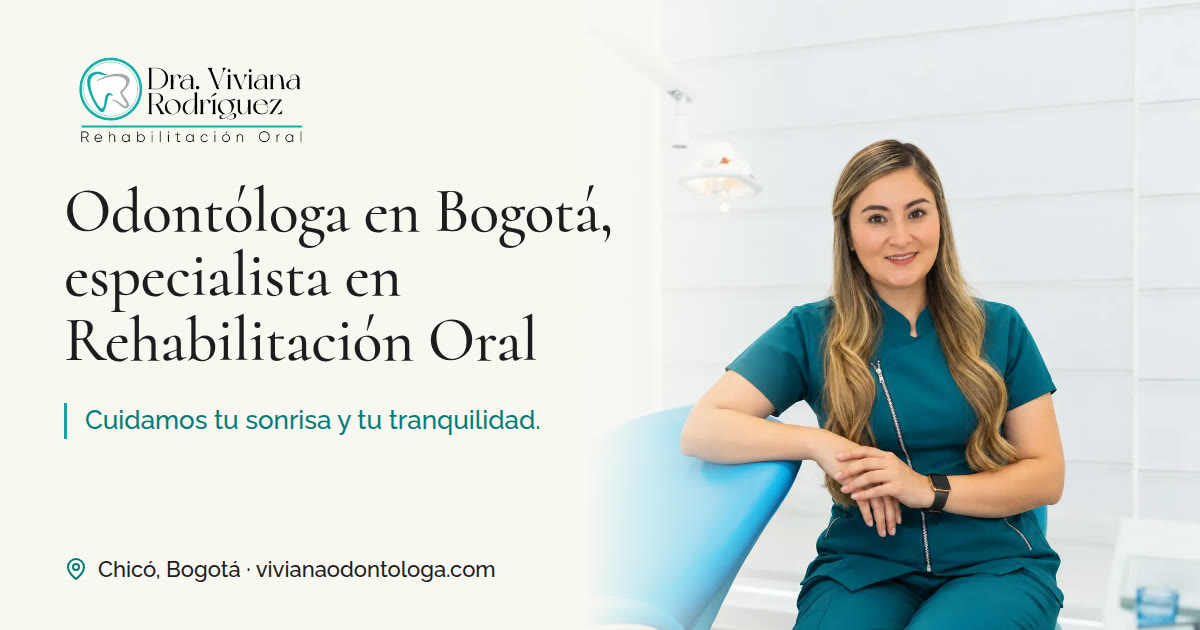
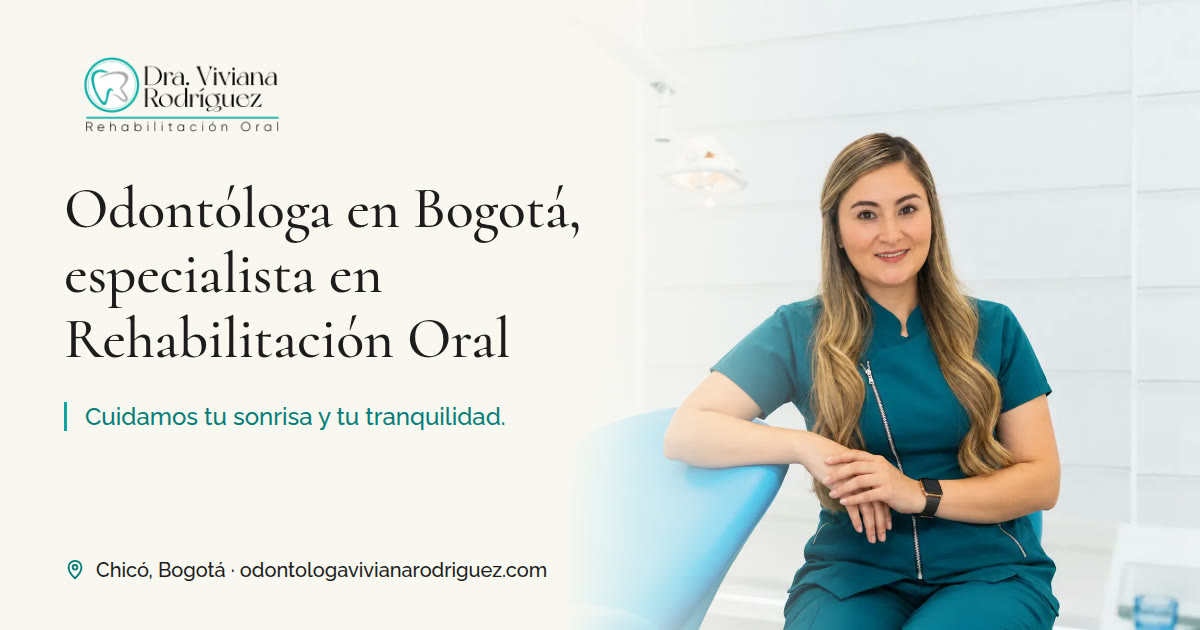
fix: rebuild og-image with the real domain and close launch checkpoints
The og-image still printed vivianaodontologa.com; rebuilt with odontologavivianarodriguez.com. CHECKPOINTS: §4 assets checked by eye, §3 (no form, no Resend) and §5 (Cloudflare DNS only) marked not applicable. client-gaps: domain item updated. .env.template: drop unused Resend and Content Island keys.

diff --git a/CHECKPOINTS.md b/CHECKPOINTS.md
@@ -21,31 +21,41 @@ item depends on the ones above it.
 
 ## 3. Email for the contact form (only if the site has a form)
 
-- [ ] The form follows the rules in `AGENTS.md` § Contact forms.
-- [ ] The API key and the addresses are environment variables on the host, never in
+> **Does not apply (2026-11-14):** the site has no form; contact is through WhatsApp,
+> phone and email links. No Resend integration, API key or sending domain. If a form
+> (or the booking spec) is added later, reopen this section.
+
+- [x] N/A: The form follows the rules in `AGENTS.md` § Contact forms.
+- [x] N/A: The API key and the addresses are environment variables on the host, never in
       the repo.
-- [ ] The sending domain is verified in Resend (SPF, DKIM and DMARC at the DNS
+- [x] N/A: The sending domain is verified in Resend (SPF, DKIM and DMARC at the DNS
       provider), and a test message from the form arrives.
 
 ## 4. The gate, with the real domain
 
 - [x] `pnpm build` passes with the real `site`. No `[CLIENTE]` or other placeholder is
       left: once `site` is the real domain, `placeholder-text` is an error.
-- [ ] The favicon, the logo and the `og-image` in `public/` are the client's, not the
-      placeholders (the gate cannot see what an image shows).
+- [x] The favicon, the logo and the `og-image` in `public/` are the client's, not the
+      placeholders (the gate cannot see what an image shows). Checked by eye on
+      2026-11-14; the `og-image` was rebuilt because it still printed the old domain.
 - [x] Every entry in `shineSeo({ ignore })` still has a valid reason.
 
 ## 5. AI bot policies (only on Cloudflare)
 
-- [ ] Security Settings → Bot traffic → AI bot policies: the *Search*, *Agent* and
+> **Does not apply (2026-11-14):** both records are **DNS only** (grey cloud), so
+> traffic goes straight to Netlify and no Cloudflare bot setting, WAF rule or Bot Fight
+> Mode touches it. Netlify serves the repo's `robots.txt` unchanged (checked live). If
+> the proxy is ever turned on, reopen this section and set SSL/TLS to Full (strict).
+
+- [x] N/A: Security Settings → Bot traffic → AI bot policies: the *Search*, *Agent* and
       *Training* policies are decided with the client. *Search* affects search results:
       never block it without an explicit decision.
-- [ ] With *Bot Preference Sync* on, Cloudflare adds its own directives in front of the
+- [x] N/A: With *Bot Preference Sync* on, Cloudflare adds its own directives in front of the
       site's `robots.txt`. Check the robots.txt the site **serves**
       (`https://odontologavivianarodriguez.com/robots.txt`), not the one in the repo. Search Console may
       flag `Content-signal` as "Syntax not understood"; according to Cloudflare, it does
       not affect crawling.
-- [ ] If the zone is the agency's (`"cloudflare": "own"` in harness-tools'
+- [x] N/A: If the zone is the agency's (`"cloudflare": "own"` in harness-tools'
       `clients.json`): the `seo-watch` WAF rule is first in the custom rules, and Bot
       Fight Mode is off (it cannot be skipped). Steps in harness-tools' README §
       Cloudflare.

diff --git a/client-gaps.md b/client-gaps.md
@@ -115,9 +115,10 @@ existe (`url-resolves`), así que esos enlaces se pintan con `isBuilt()`
 
 - [x] **Comprar el dominio.** Comprado el 2026-11-14 en la cuenta de Cloudflare
   de Shine: `odontologavivianarodriguez.com` (reemplaza a `vivianaodontologa.com`,
-  que era el provisional). Ya está en `site`. Falta: DNS apuntando a Netlify, y en
-  `clients.json` el `domain` nuevo con `"cloudflare": "own"`, más la regla WAF de
-  `seo-watch` (`CHECKPOINTS.md` §5).
+  que era el provisional). Ya está en `site`, y el DNS apunta a Netlify con
+  HTTPS activo (2026-11-14). Los registros quedan en **DNS only**, sin proxy de
+  Cloudflare, así que no hace falta la regla WAF de `seo-watch` (`CHECKPOINTS.md` §5
+  no aplica). Falta: en `clients.json` el `domain` nuevo con `"cloudflare": "own"`.
 
 ## Pending from the client
 
